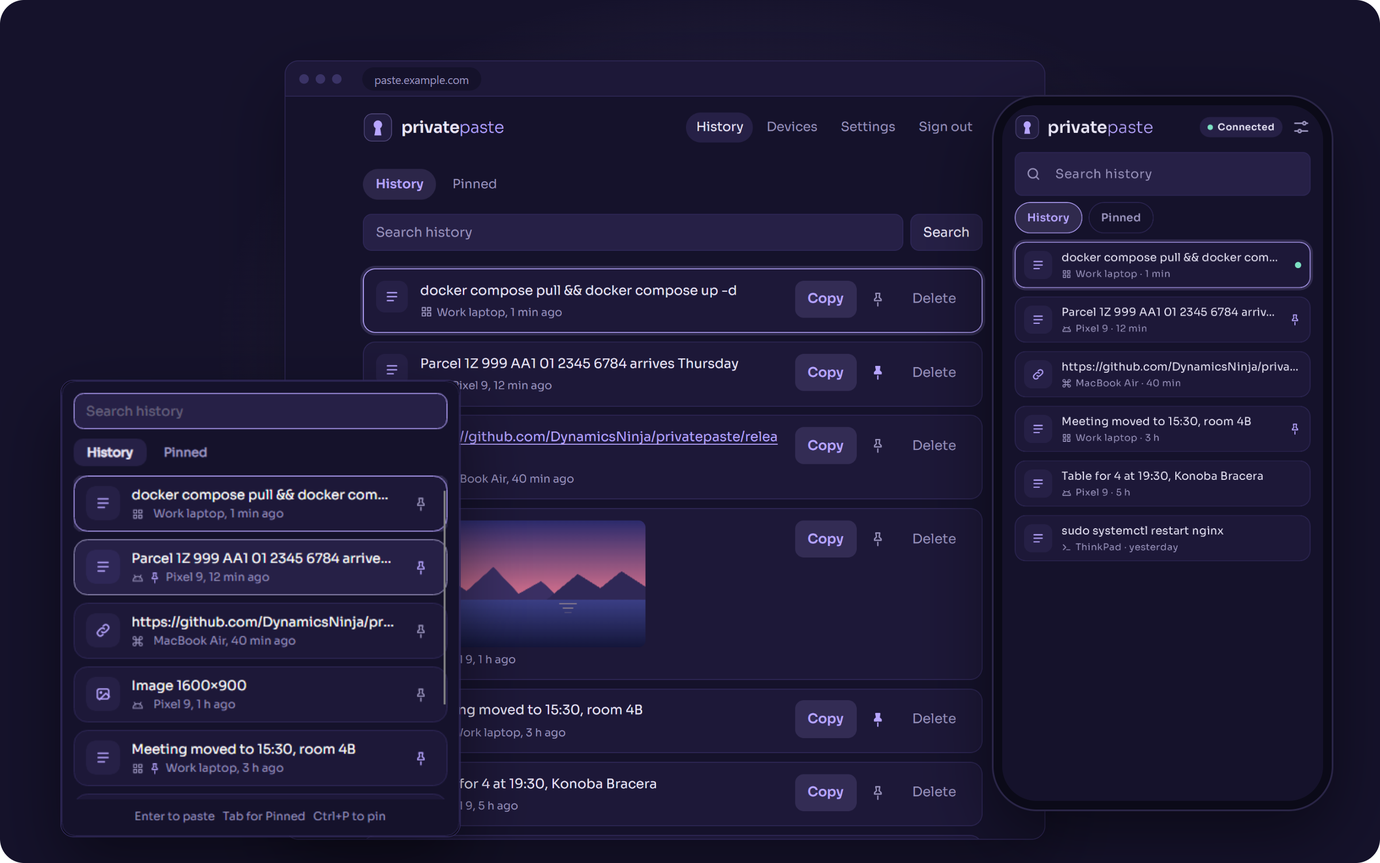
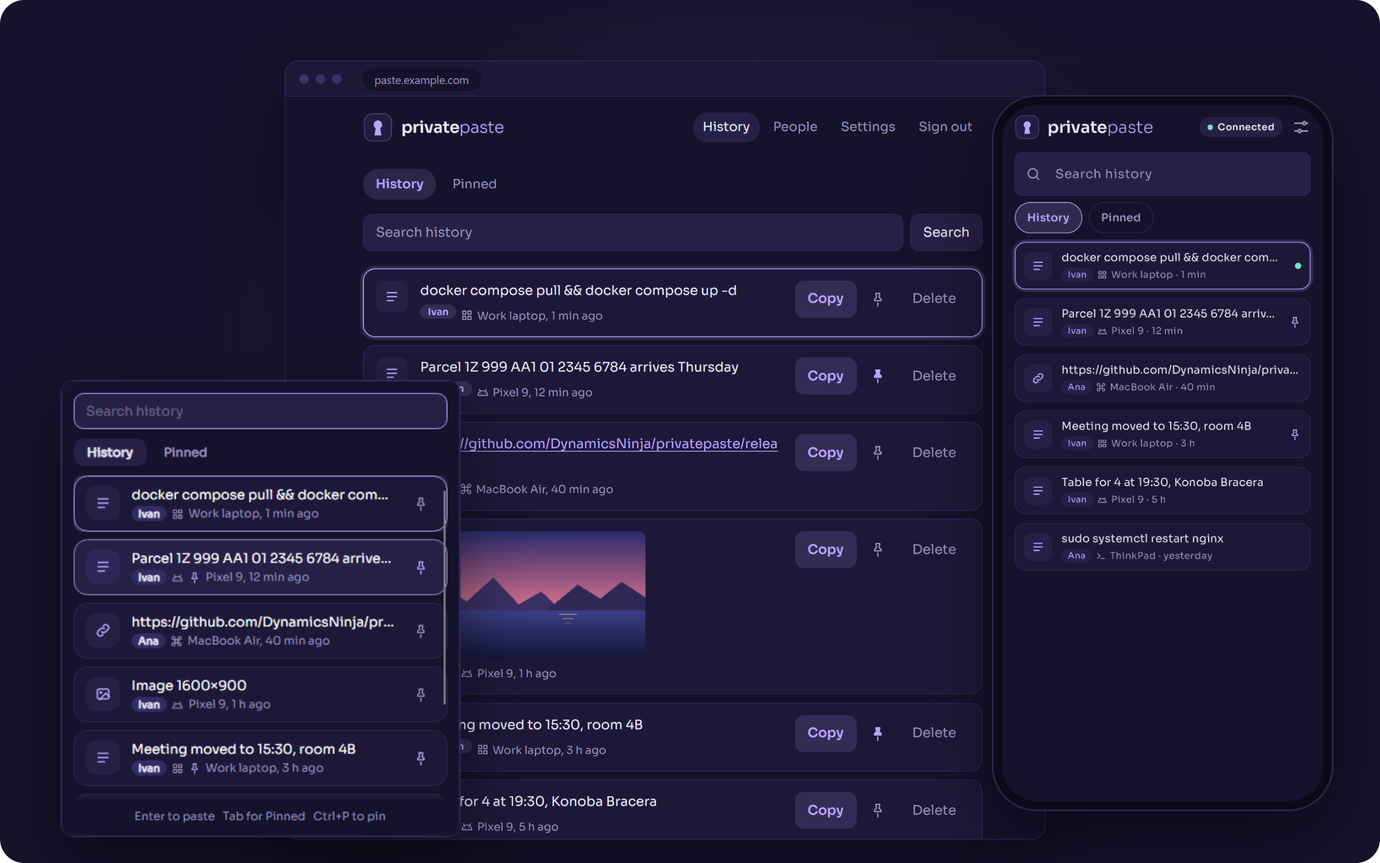
docs: multiple people; README images with person chips

diff --git a/android/app/src/test/java/xyz/ficdev/privatepaste/ui/ReadmeScreenshotTest.kt b/android/app/src/test/java/xyz/ficdev/privatepaste/ui/ReadmeScreenshotTest.kt
@@ -41,6 +41,7 @@ class ReadmeScreenshotTest {
     @Serializable
     private data class DemoClip(
         val device: String, val platform: String?, val kind: ClipKind, val text: String? = null, val minutesAgo: Long, val pinned: Boolean = false,
+        val user: String? = null,
     )
 
     @Serializable
@@ -61,7 +62,7 @@ class ReadmeScreenshotTest {
         val items = demo.clips.filter { it.kind != ClipKind.IMAGE }.mapIndexed { i, c ->
             ClipDto(
                 id = "demo-$i", seq = 1000L - i, kind = c.kind, text = c.text, hash = "h-$i", sizeBytes = 10,
-                sourceDeviceId = c.device, sourceDeviceName = c.device, sourceDevicePlatform = c.platform,
+                sourceDeviceId = c.device, sourceDeviceName = c.device, sourceDevicePlatform = c.platform, sourceUserName = c.user,
                 lastCopiedAt = now.minusSeconds(c.minutesAgo * 60),
                 pinnedAt = if (c.pinned) now.minusSeconds(c.minutesAgo * 60 - 60).toString() else null,
             )

diff --git a/tests/PrivatePaste.Tests/Client/DesktopRenderTests.cs b/tests/PrivatePaste.Tests/Client/DesktopRenderTests.cs
@@ -315,6 +315,7 @@ public class DesktopRenderTests
                 null, c.GetProperty("device").GetString()!, now.AddMinutes(-c.GetProperty("minutesAgo").GetInt32()))
             {
                 SourceDevicePlatform = c.GetProperty("platform").GetString(),
+                SourceUserName = c.TryGetProperty("user", out var user) ? user.GetString() : null,
                 PinnedAt = c.TryGetProperty("pinned", out var pinned) && pinned.GetBoolean()
                     ? now.AddMinutes(-c.GetProperty("minutesAgo").GetInt32() + 1) : null,
             });

diff --git a/README.md b/README.md
@@ -28,7 +28,7 @@
 
 <picture>
   <source media="(prefers-color-scheme: dark)" srcset="docs/images/hero-dark.png">
-  <img src="docs/images/hero-light.png" alt="The PrivatePaste web history, the desktop history popup and the Android app showing the same clips, each marked with the device it came from">
+  <img src="docs/images/hero-light.png" alt="The PrivatePaste web history, the desktop history popup and the Android app showing the same clips, each marked with the person and device it came from">
 </picture>
 
 ## Why PrivatePaste
@@ -38,10 +38,11 @@
 - **Private copies stay private.** On the desktop apps, a copy that a password manager marks as private never leaves your computer: it isn't uploaded, cached or shown anywhere. The desktop app can also ignore copies from apps you name. Android only sends what you send or share yourself. [Details](docs/desktop.md#private-copies)
 - **Pinned clips.** Pin the clips you reuse. They get their own tab on every device and survive clearing and auto-delete.
 - **Clear it when you want.** Clear the history from the web UI, or let the server delete clips older than 7, 30 or 90 days. Pinned clips stay. Off by default: otherwise clips are kept until you delete them.
-- **Only on your server.** One small container. No accounts, no cloud relay, no push service, no analytics, no third-party requests.
+- **Multiple people, one shared history.** Add the people you share a server with (a household, a small team). Each signs in with their own name and password, everyone sees the same history, and each clip shows who copied it. The owner can sign someone out or remove them without changing a password for everyone. [Details](docs/self-hosting.md#people)
+- **Only on your server.** One small container. No cloud relay, no push service, no analytics, no third-party requests.
 - **Encrypted at rest.** The database (SQLite3 Multiple Ciphers) and the stored images are encrypted with a key that only you hold.
 - **Native on every device.** A tray app with a history popup (Ctrl+Shift+V) on Windows, macOS and Linux, an Android app with a Quick Settings tile and a Share target, and a web UI for everything else.
-- **Knows where a clip came from.** Each clip carries its device's name and platform icon, and the desktop app can show a small notification when a clip from another device lands.
+- **Knows where a clip came from.** Each clip carries its device's name and platform icon (and, once a second person is added, a chip with the name of who copied it), and the desktop app can show a small notification when a clip from another device lands.
 
 ## Apps
 
@@ -58,9 +59,9 @@
 ### Dokploy
 
 1. Create a **Compose** service from this repository.
-2. Set `PP_DB_KEY` (a random key, see below) and `PP_PASSWORD` (your login password).
+2. Set `PP_DB_KEY` (a random key, see below) and `PP_PASSWORD` (the owner's password).
 3. Add a domain for service `privatepaste` on port `8080` with HTTPS.
-4. Deploy, then sign in from the apps with your domain and password.
+4. Deploy, then sign in from the apps with your domain, the name `owner` and that password.
 
 ### Docker Compose
 
@@ -85,7 +86,10 @@ All settings, backups and proxy notes are in [Self-hosting](docs/self-hosting.md
 
 ### Connect your devices
 
-Install an app, then enter your server URL, the password and a name for the device. That's it: from then on the device stays signed in and in sync. You can see and revoke devices on the **Devices** page of the web UI.
+Install an app, then enter your server URL, your name and password, and a name for the device. On a new server the name is `owner` and the password is `PP_PASSWORD`. That's it: from then on the device stays signed in and in sync. Add the other people on the **People** page of the web UI, where you can also see and sign out devices.
+
+> [!NOTE]
+> **Upgrading a server that several people already share?** Every existing device becomes the owner's and keeps working. Sign the devices that belong to someone else out on the **People** page; each person then signs in again with their own account. Apps from before this version can't sign in until they are updated. Back up `/data` before upgrading. [Details](docs/self-hosting.md#upgrading-to-multiple-people)
 
 ## How it works
 
@@ -96,13 +100,14 @@ flowchart LR
     B["Web UI"] <-->|HTTPS| S
 ```
 
-Each device signs in with the server password once and gets its own device token. A copy is uploaded to the server, stored, and pushed over a WebSocket to your other devices, which put it on their clipboard. A device that was offline catches up when it reconnects, and only the newest clip lands on its clipboard, so nothing old overwrites what you have now. The same content copied twice is bumped to the top instead of stored again.
+Each device signs in with a person's name and password once and gets its own device token. A copy is uploaded to the server, stored, and pushed over a WebSocket to your other devices, which put it on their clipboard. A device that was offline catches up when it reconnects, and only the newest clip lands on its clipboard, so nothing old overwrites what you have now. The same content copied twice is bumped to the top instead of stored again.
 
 ## Security
 
 - The database and image files are encrypted at rest with `PP_DB_KEY`.
-- The password is hashed with Argon2id. Sign-in is rate-limited per client IP.
-- Every device has its own token. Revoke a lost device from the web UI and it is signed out at once.
+- Passwords are hashed with Argon2id. Sign-in is rate-limited per client IP.
+- Every device has its own token. Sign out a lost device from the People page and it is out at once. Removing a person or resetting their password signs out all their devices and web sessions.
+- Only the owner can add or remove people, clear the history or change auto-delete.
 - Only HTTPS servers are accepted by the apps (plain HTTP only for localhost).
 - On the desktop apps, copies that password managers mark as private, and copies from apps on the blocklist, are never uploaded. This depends on the app marking its copies; see [Private copies](docs/desktop.md#private-copies) for what is covered. Android sends only what you send or share yourself.
 - The server can read your clips: this is encryption at rest, not end-to-end encryption. Run it on a machine you trust.
@@ -111,7 +116,7 @@ Each device signs in with the server password once and gets its own device token
 
 | Guide | What's in it |
 |---|---|
-| [Self-hosting](docs/self-hosting.md) | Environment variables, keys, changing the password, backups, clearing history and auto-delete, proxies, local development |
+| [Self-hosting](docs/self-hosting.md) | Environment variables, keys, people and passwords, upgrading, backups, clearing history and auto-delete, proxies, local development |
 | [Desktop app](docs/desktop.md) | Install, upgrade, hotkey, pause, pinned clips, private copies and the app blocklist, uninstall, building from source; macOS and Linux notes |
 | [Android app](docs/android.md) | Install, pinned clips, background delivery, battery settings by phone maker, building and releasing |
 | [API reference](docs/api.md) | Endpoints, WebSocket messages, client rules and the content hash, for writing your own client |

diff --git a/docs/self-hosting.md b/docs/self-hosting.md
@@ -7,7 +7,7 @@ Running the PrivatePaste server: deployment, configuration, keys, backups and lo
 1. Create a **Compose** application from this repository (it uses `docker-compose.yml`).
 2. Set the environment variables:
    - `PP_DB_KEY` (required, at least 16 characters): encryption key for the database and blobs. It must be a high-entropy random value (see [Generating keys](#generating-keys)), not a memorable passphrase.
-   - `PP_PASSWORD` (required): the login password.
+   - `PP_PASSWORD` (required): the owner's password. It creates the owner (named `owner`) on first start; changing it later resets the owner's password, see [Changing the password](#changing-the-password).
    - `PP_MAX_IMAGE_MB` (optional, default 20) and `PP_MAX_TEXT_KB` (optional, default 1024).
    - `PP_TRUST_CLOUDFLARE` (optional, default false). Set to `true` when the server sits behind a Cloudflare tunnel, so the login limit uses the visitor IP from `CF-Connecting-IP` and session cookies are marked Secure (scheme from `Cf-Visitor`). Only enable it if the server is reachable exclusively through Cloudflare; otherwise anyone can set these headers.
 3. Add a domain pointing to service `privatepaste`, port **8080**, with HTTPS enabled. Traefik passes WebSockets through by default.
@@ -25,11 +25,35 @@ Use the output for `PP_DB_KEY` (and a strong, separate value for `PP_PASSWORD`).
 
 **Back up `PP_DB_KEY`. Without it the data is unrecoverable.**
 
+## People
+
+A server has people, who share one history. Each signs in with a name and a password. The owner is the person created on first start, named `owner` (rename it from the **People** page), with `PP_PASSWORD` as the password. There is exactly one owner.
+
+The owner manages people on the **People** page of the web UI (History, People, Settings in the top bar):
+
+- **Add person**: a name (1-32 characters, unique, not case-sensitive) and a first password (at least 8 characters). Hand them over yourself; there is no self sign-up, invite or email.
+- **Rename**: clips show the person's current name everywhere.
+- **Reset password**: sets a new password and signs out all that person's devices and web sessions.
+- **Remove**: signs out all their devices and web sessions at once. Their past clips stay in the history under their name. The name can be reused later.
+- **Sign out** a single device, for any person.
+
+Anyone changes their own password under **Settings > Change password** (their devices stay signed in) and signs out their own devices on the People page. Only the owner sees auto-delete and Clear history, and the server refuses them to anyone else. History rows show a name chip once the server has more than one person.
+
 ## Changing the password
 
-Edit `PP_PASSWORD` in the environment and redeploy. The password is hashed with Argon2id at startup.
+- **Your own password** (owner or anyone): **Settings > Change password** in the web UI. When the owner does this, web sessions from before the upgrade to people end too.
+- **Forgot the owner's password**: set a new `PP_PASSWORD` and redeploy. When the server starts with a different `PP_PASSWORD` than last time (it remembers a hash, never the value), it resets the owner's password to it. This does not sign out the owner's devices. If `PP_PASSWORD` is unchanged, a password the owner set on the web stays in force. Web sessions from before the upgrade to people also end then.
+- **Another person's password**: the owner resets it on the People page.
+- If a password leaked, reset it: the person's devices are signed out. Passwords are hashed with Argon2id.
 
-Existing device tokens keep working after a password change: changing the password does not log devices out. If you are changing it because it leaked, open the **Devices** page in the web UI and revoke every device you don't recognize.
+## Upgrading to multiple people
+
+**Back up `/data` before upgrading**: the first start migrates the database.
+
+- The owner account is created from your existing setup (name `owner`, password `PP_PASSWORD`). Every existing device becomes the owner's and keeps working without signing in again; clips copied so far are the owner's.
+- On a server that several people already shared, the devices that belong to someone else are not moved. The owner signs them out on the People page; each person then signs in again with their own account, which the owner adds there.
+- Apps from before this version can't sign in: they get "Update PrivatePaste to sign in." Update them (release the server first, then the desktop and Android apps). Devices already signed in with an old app keep syncing.
+- New apps still sign in to an old server.
 
 ## Backups
 
@@ -38,7 +62,7 @@ Existing device tokens keep working after a password change: changing the passwo
 
 ## Clearing history and auto-delete
 
-Clips are kept until someone deletes them. The **Settings** page of the web UI has two ways to clean up, both for every device:
+Clips are kept until someone deletes them. The **Settings** page of the web UI has two ways to clean up, both for every device and for the owner only:
 
 - **Clear history** deletes every clip that is not pinned, after a confirmation that says how many clips go. Devices that were offline remove them when they reconnect.
 - **Auto-delete history** (Off, or after 7, 30 or 90 days; off by default) deletes unpinned clips once they are that old. The server checks at startup and then every hour. A clip's age counts from the later of its last copy and its unpin.
@@ -47,12 +71,14 @@ Pinned clips are never cleared or auto-deleted. Cleared stays cleared: a device 
 
 ## Proxy and forwarded headers
 
-Login is rate-limited to 5 attempts per minute per client IP (IPv6 clients per /64 prefix). The server trusts `X-Forwarded-For` from the reverse proxy to identify the client IP, so only expose the container through the proxy (Traefik). Do not publish port 8080 directly to the internet, or clients could spoof their IP and bypass the limit.
+Sign-in is rate-limited to 5 attempts per minute per client IP (IPv6 clients per /64 prefix). The server trusts `X-Forwarded-For` from the reverse proxy to identify the client IP, so only expose the container through the proxy (Traefik). Do not publish port 8080 directly to the internet, or clients could spoof their IP and bypass the limit.
 
 ## Local development
 
 ```
 PP_DB_KEY=0123456789abcdef0123 PP_PASSWORD=dev PP_DATA_DIR=./data dotnet run --project src/PrivatePaste.Server
 ```
+
+Sign in as `owner` with the password `dev`.
 
 Run the tests with `dotnet test`.

diff --git a/scripts/readme/README.md b/scripts/readme/README.md
@@ -19,13 +19,14 @@ powershell -File scripts/readme/build.ps1
 
 It needs the .NET SDK, Node.js and a JDK 21 (`JAVA_HOME`, or Android Studio's / Microsoft's JDK, found automatically). It takes a few minutes and does this, all locally:
 
-1. Publishes the server into `scripts/readme/out/server` and starts it on http://localhost:5311 with a fresh, empty data directory and the password `dev`. It never touches a real server.
+1. Publishes the server into `scripts/readme/out/server` and starts it on http://localhost:5311 with a fresh, empty data directory; the owner is `owner` with the password `dev`. It never touches a real server.
 2. Renders the desktop popup from `demo.json` with the real Avalonia theme: the test `DesktopRenderTests.Readme_popup` writes `out/readme-popup-{dark,light}.png`.
 3. Renders the Android history from `demo.json` with Robolectric: `ReadmeScreenshotTest` writes `out/readme-history-{dark,light}.png`. Image clips are left out there, because the test has no thumbnail to load.
 4. Runs `capture.mjs` (Playwright, using the installed Edge or Playwright's Chromium):
    - renders `photo.html` to `out/photo.png`, the picture used for the image clip;
-   - signs in once per demo device (Work laptop/Windows, Pixel 9/Android, MacBook Air/macOS, ThinkPad/Linux) and uploads the clips oldest first as backfilled clips, so each keeps its age ("12 min ago", "yesterday");
-   - signs in to the web UI and saves `out/web-{dark,light}.png` (880×860 at 2×);
+   - signs in to the web UI as `owner`, renames the owner to the first `user` in `demo.json` and adds the other people on the People page (one sign-in);
+   - signs in once per demo device (Work laptop/Windows, Pixel 9/Android, MacBook Air/macOS, ThinkPad/Linux), each as its person, and uploads the clips oldest first as backfilled clips, so each keeps its age ("12 min ago", "yesterday");
+   - saves `out/web-{dark,light}.png` from that web session (880×860 at 2×);
    - composes `hero.html` (browser frame with the web shot, the popup over its lower left, the phone on the right, on a Night vault background with rounded transparent corners) and saves `docs/images/hero-{dark,light}.png` at 1.5×.
 5. Stops the server. `out/` is git-ignored and recreated on every run.
 
@@ -33,7 +34,7 @@ Then look at both PNGs and commit them. The README shows the dark one in dark mo
 
 ### Changing it
 
-- **Demo content:** `demo.json`, newest first. `kind` is `text`, `link` or `image`; `platform` picks the icon. Keep it to 4 distinct devices: the server allows 5 sign-ins a minute and the web UI needs one. Keep it realistic and free of personal data.
+- **Demo content:** `demo.json`, newest first. `user` is the person who copied it (the first one named is the owner; each device belongs to one person, and the name chips only show because there are two people). `kind` is `text`, `link` or `image`; `platform` picks the icon. Keep it to 4 distinct devices: the server allows 5 sign-ins a minute and the web UI needs one. Keep it realistic and free of personal data.
 - **Layout:** `hero.html`. Positions are in CSS pixels on a 1600×1000 stage; the colors at the top are the `DESIGN.md` tokens.
 - **Picture in the image clip:** `photo.html` (an inline SVG).
 - **Sizes:** the web viewport and scale are in `capture.mjs`; the phone size comes from the Robolectric qualifiers in `ReadmeScreenshotTest`; the popup is its real window size.
@@ -58,8 +59,8 @@ Draws the logo tile plus the `privatepaste` wordmark with the outlines of the bu
 
 The README states these facts; check them when the apps change:
 
-- The feature list under "Why PrivatePaste": the hotkey (Ctrl+Shift+V), the Quick Settings tile and Share target, the clip-arrival notification, "kept until you delete it".
+- The feature list under "Why PrivatePaste": multiple people with one shared history, the hotkey (Ctrl+Shift+V), the Quick Settings tile and Share target, the clip-arrival notification, "kept until you delete it".
 - The Apps table: release file names (`.msi`, `.zip`, `osx-arm64`/`osx-x64`, `linux-x64.tar.gz`, `.apk`), Android 10 minimum, signing/notarization status.
-- Quick start: the environment variables, port 8080, service name `privatepaste`, the prebuilt image name.
-- Security: Argon2id, the sign-in rate limit, HTTPS-only clients, and that this is encryption at rest, not end-to-end.
+- Quick start: the environment variables (`PP_PASSWORD` is the owner's password, the owner signs in as `owner`), the upgrade note for servers several people already share, port 8080, service name `privatepaste`, the prebuilt image name.
+- Security: Argon2id, the sign-in rate limit, what removing a person or resetting a password signs out, owner-only actions, HTTPS-only clients, and that this is encryption at rest, not end-to-end.
 - Badges: the `desktop-v*` and `android-v*` tag filters. Release badges need the repository to be public.

diff --git a/docs/android.md b/docs/android.md
@@ -7,7 +7,7 @@ Install, use and build the PrivatePaste Android app.
 A sideloaded Android app (Android 10 or newer) that puts clips from your other devices on the phone's clipboard, sends the phone's clipboard or a shared item to them, and shows the searchable history. It talks only to your server: no Google Play, no push service, no analytics.
 
 - **Install**: download `PrivatePaste-android-<version>.apk` from the latest GitHub Release on the phone, open it, and allow "Install unknown apps" for the browser or file manager you used when Android asks.
-- **Sign in**: enter the server URL (`https://` only; plain `http://` works only for localhost, for development), the server password and a device name. After that the app stays signed in.
+- **Sign in**: enter the server URL (`https://` only; plain `http://` works only for localhost, for development), your name, your password and a device name (on a new server the owner is `owner`, with the server's `PP_PASSWORD`). The app remembers the name. A wrong name or password shows "Wrong name or password." After that the app stays signed in.
 - **Allow notifications and background use**: after the first sign-in the app asks for the notification permission (the service shows a permanent "PrivatePaste connected" notification) and to be exempt from battery optimization. Allow both. Without them Android stops the connection when the phone sleeps.
 - **Send clipboard tile**: pull down Quick Settings, tap the edit (pencil) button, and drag "Send clipboard" into the active tiles. Tapping it sends what is on the clipboard now.
 - **Share to PrivatePaste**: in any app, use Share and pick "Send to PrivatePaste" to send text, a link or an image.
@@ -19,8 +19,8 @@ A sideloaded Android app (Android 10 or newer) that puts clips from your other d
   - **Xiaomi (MIUI / HyperOS)**: set Battery saver to "No restrictions" for the app and turn on Autostart for it in Security or Permissions.
   - **Samsung (One UI)**: remove PrivatePaste from "Sleeping apps" and "Deep sleeping apps" (Settings → Battery → Background usage limits).
   - **Huawei (EMUI / HarmonyOS)**: in the app's Battery settings turn off "Manage automatically" and allow Auto-launch, Secondary launch and Run in background.
-- **Revoked device**: if the phone is revoked from the web UI, the app shows a "Signed out" notification and stops. Sign in again to resume.
+- **Revoked device**: if the phone is signed out from the People page of the web UI (or its person is removed or has their password reset), the app shows a "Signed out" notification and stops. Sign in again to resume.
 - **Updating**: install a newer APK over the old one. Android only accepts it when it is signed with the same key as the installed app, so keep using the release APKs from this repository's Releases. The first time you switch between a debug build and a release build you must uninstall the old one.
 - **Release** (for the repository owner): run `powershell -File scripts/android-keystore.ps1`. It creates `android/keystore/release.jks` (git-ignored) and prints the password once and the `gh secret set` commands for the four secrets `ANDROID_KEYSTORE_BASE64`, `ANDROID_KEYSTORE_PASSWORD`, `ANDROID_KEY_ALIAS` and `ANDROID_KEY_PASSWORD`. Run them, then push a tag such as `android-v0.1.0`. `.github/workflows/android.yml` tests, builds the signed APK and attaches it to a GitHub Release (a version with a `-`, like `0.2.0-rc1`, becomes a prerelease). Back up `release.jks`: without it, updates can't be installed over the existing app.
 - **Build it yourself**: in `android/`, run `./gradlew assembleDebug`. `./gradlew assembleRelease` signs only when `PP_ANDROID_KEYSTORE` (path), `PP_ANDROID_KEYSTORE_PASSWORD`, `PP_ANDROID_KEY_ALIAS` and `PP_ANDROID_KEY_PASSWORD` are set; otherwise it produces an unsigned APK and warns. `-PppVersion=0.1.0 -PppVersionCode=1` set the version.
-- **End-to-end test**: with a local server running (see [Local development](self-hosting.md#local-development), `PP_PASSWORD=dev`, e.g. `ASPNETCORE_URLS=http://localhost:5299`), run `PP_E2E_URL=http://localhost:5299 ./gradlew testDebugUnitTest --tests '*LocalServerE2eTest*'` in `android/`. Without `PP_E2E_URL` the test is skipped.
+- **End-to-end test**: with a local server running (see [Local development](self-hosting.md#local-development), `PP_PASSWORD=dev`, signed in as `owner`, e.g. `ASPNETCORE_URLS=http://localhost:5299`), run `PP_E2E_URL=http://localhost:5299 ./gradlew testDebugUnitTest --tests '*LocalServerE2eTest*'` in `android/`. Without `PP_E2E_URL` the test is skipped.

diff --git a/docs/desktop.md b/docs/desktop.md
@@ -12,7 +12,7 @@ A tray app that keeps your clipboard in sync with the server (Windows; see [macO
 - **Work PCs**: a managed PC can block unsigned apps with Microsoft Defender attack surface reduction (ASR) rules. Ask your IT department for an exception for the exact path `%LOCALAPPDATA%\Programs\PrivatePaste\PrivatePaste.exe`.
 - **Upgrade**: install the newer `.msi`. It closes a running PrivatePaste, replaces the old version and keeps your settings, sign-in and history. Installing an older version over a newer one is refused; uninstall first if you really want to go back.
 - **Silent upgrade**: after an upgrade run with `msiexec /qn` or `/passive` the app is not started again; it comes back at your next sign-in (if "Start with Windows" is on) or when you start it from the Start menu.
-- **First sign-in**: start the app, enter the server URL (`https://` only; plain `http://` is accepted for localhost), the server password and a device name. After that it stays signed in and starts minimized in the tray.
+- **First sign-in**: start the app, enter the server URL (`https://` only; plain `http://` is accepted for localhost), your name, your password and a device name (on a new server the owner is `owner`, with the server's `PP_PASSWORD`). The app remembers the name. A wrong name or password shows "Wrong name or password."; an app from before people existed is told to update. After that it stays signed in and starts minimized in the tray.
 - **Hotkey**: Ctrl+Shift+V opens the history popup. Pick an item to re-sync it, put it on the clipboard and paste it. The hotkey can be changed in Settings.
 - **Popup and focus**: on Windows the popup never takes the focus from the app you are in, so a text box stays in edit mode (Explorer's address bar or a file rename box too) and the paste lands there. While it is open, typing goes to its search box, Up/Down/Page Up/Page Down pick, Enter or a click pastes, and Esc, a click outside or switching to another window closes it. Other keys are ignored, so nothing you press can act on the app below. The search box takes direct keys only: IME input (Japanese, Chinese, ...) and dead-key accents can't be typed into it.
 - **Pinned clips**: the popup has History and Pinned tabs (Tab switches between them). Each row has a pin button, and Ctrl+P pins or unpins the selected row. Pinned clips sync to every device, show a pin in History, and are kept when the history is cleared or auto-deleted on the server. The Pinned tab lists them all, even ones older than the 500 kept in the cache.

diff --git a/DESIGN.md b/DESIGN.md
@@ -57,7 +57,7 @@ The logo is fixed in both modes: tile `#221D40`, keyhole `#B7A5FF`, hairline edg
 - **Search field:** `raised` fill, 10px radius, placeholder "Search history".
 - **Connection chip (apps):** pill in `raised` with a `live` dot and "Connected".
 - **Desktop popup:** search field on top, the clip list, a footer hint "Enter to paste  Esc to close".
-- **Desktop toast:** small card, platform icon tile, "From {device}" in 600, a one-line preview ("Image W×H" for images); hides after 4 s and never takes focus.
+- **Desktop toast:** small card, platform icon tile, "From {person} · {device}" (just "From {device}" when no person is shown) in 600, a one-line preview ("Image W×H" for images); hides after 4 s and never takes focus.
 - **Android top bar:** 32dp logo tile, the two-tone wordmark, the connection chip and a settings button.
 
 ## Copy
@@ -76,5 +76,5 @@ Plain, sentence case, says what happens. Buttons name the action ("Copy", "Delet
 ## Checking a UI change
 
 1. Render both themes: desktop `DesktopRenderTests` and Android `ScreenshotTest` with `PP_SCREENSHOT_DIR` set; the web UI against a local dev server in a browser, dark and light.
-2. Check a phone-width web layout too (the devices page stacks on narrow screens).
+2. Check a phone-width web layout too (the People page stacks on narrow screens).
 3. If the web history, desktop popup or Android history changed visibly, rebuild the README hero with `scripts/readme/build.ps1`.
